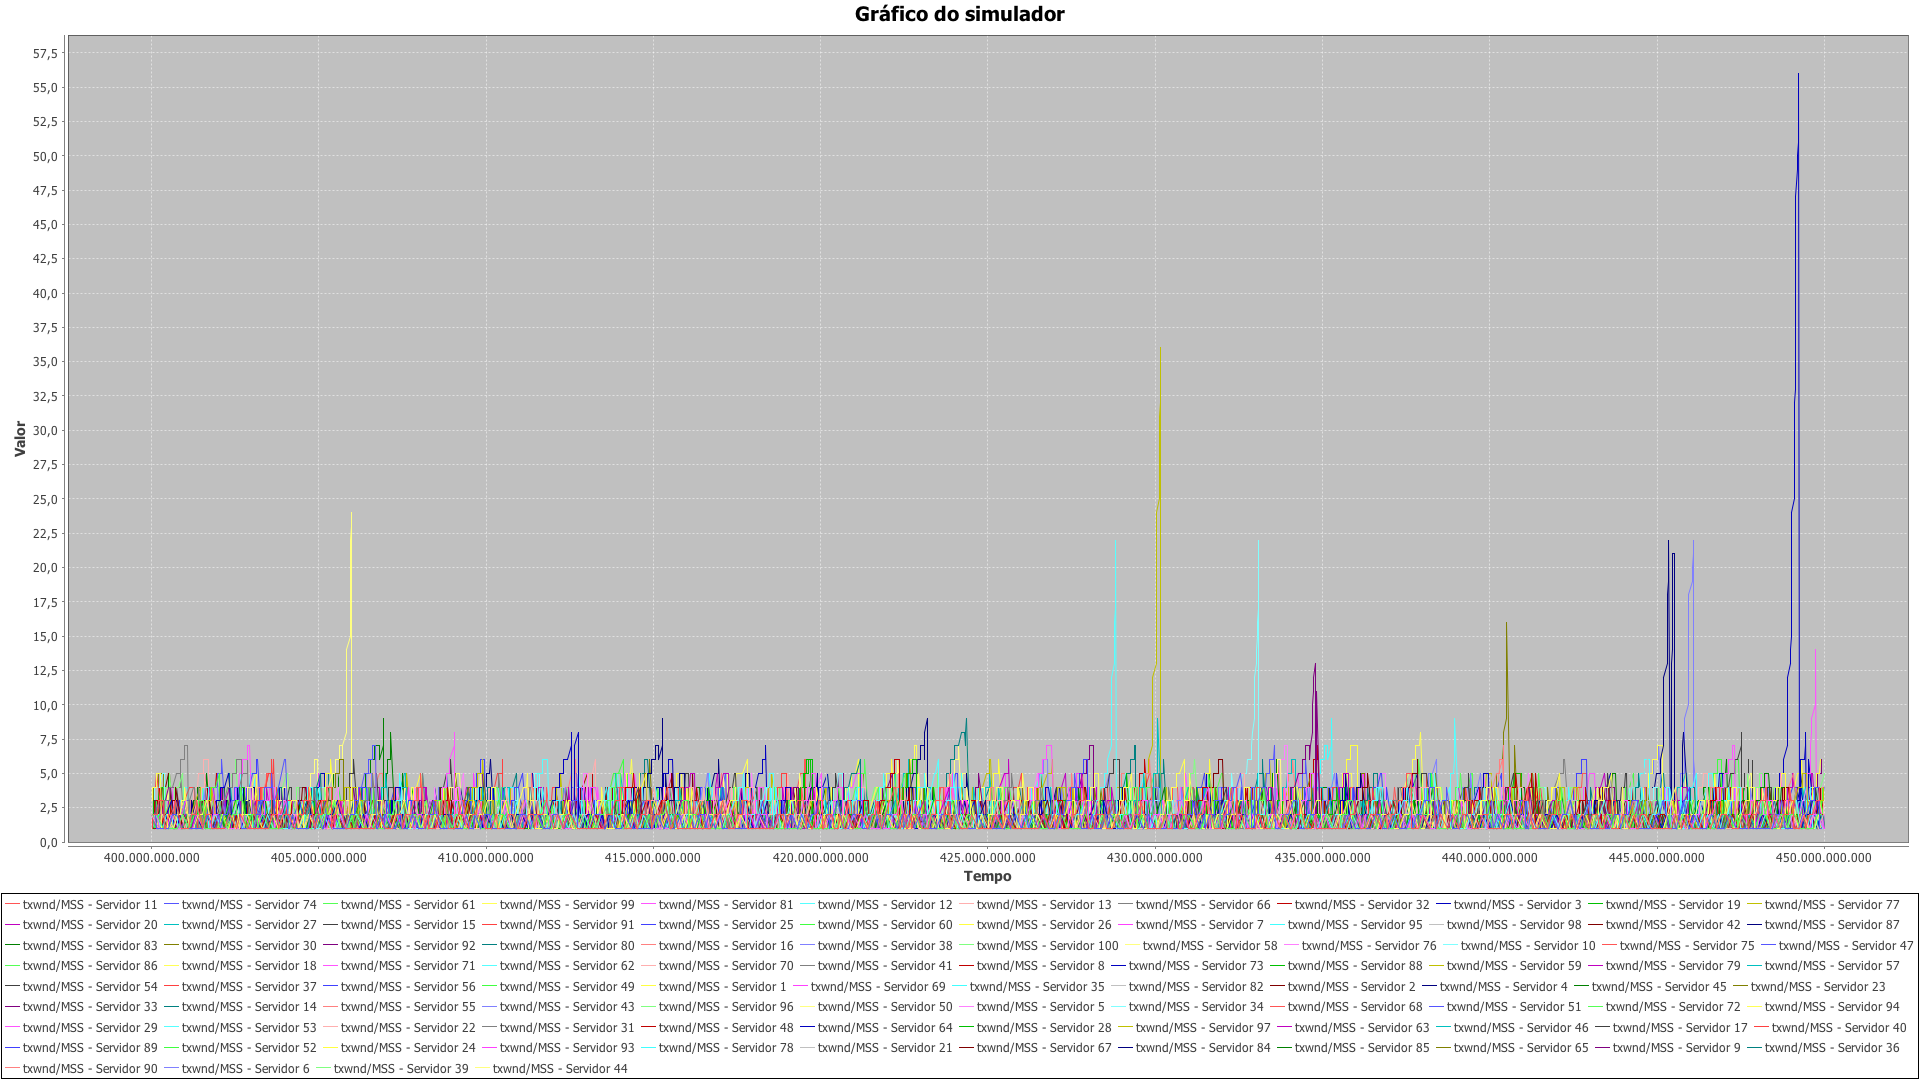
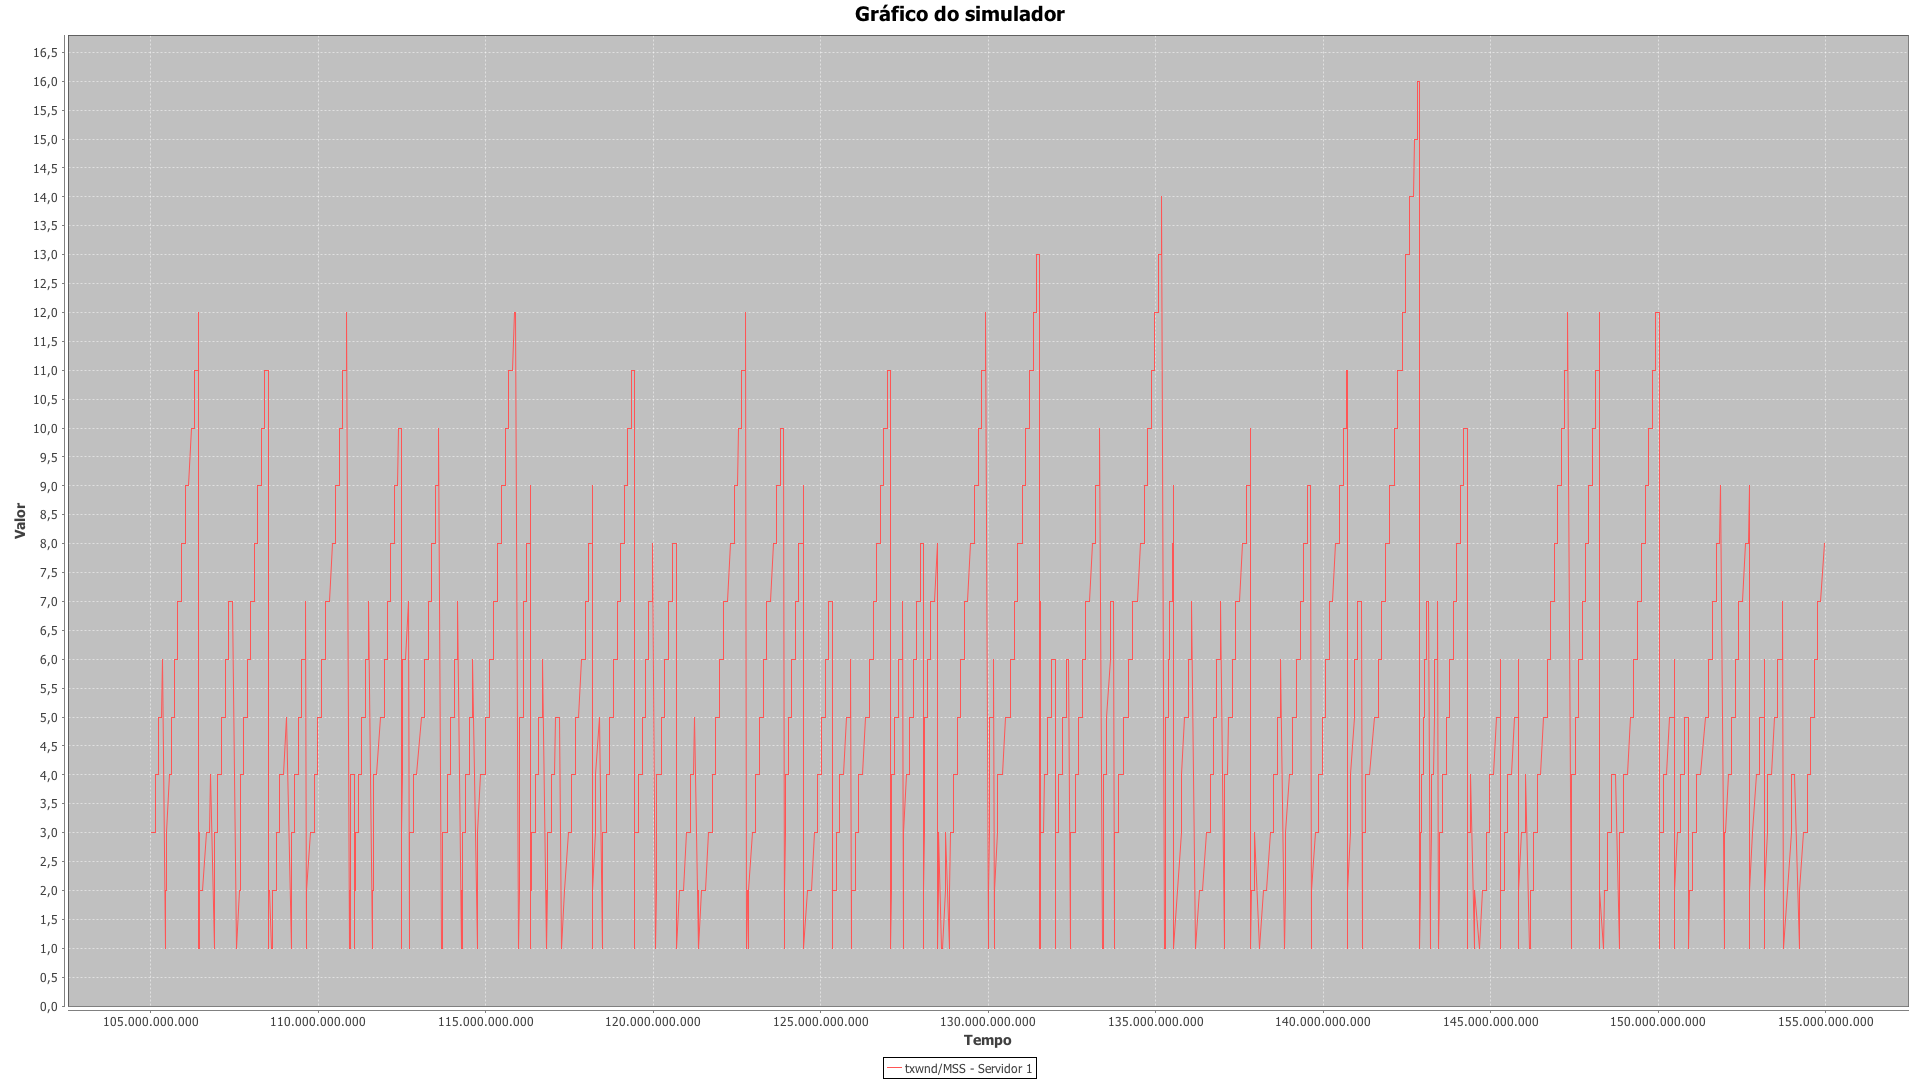
adding transient time

diff --git a/src/Controller/Simulator.java b/src/Controller/Simulator.java
@@ -118,7 +118,7 @@ public class Simulator {
 		//Indica que é a primeira rodada, ou seja, a fase transiente 
 		Boolean firstRound = true;
 		//Guarda o tempo de término da rodada atual
-		Long currentRoundEndTime = roundDuration;
+		Long currentRoundEndTime = SimulatorProperties.transientTime;
 
 		simulator.routerRate = 0;
 		Collections.sort(simulator.eventBuffer);
